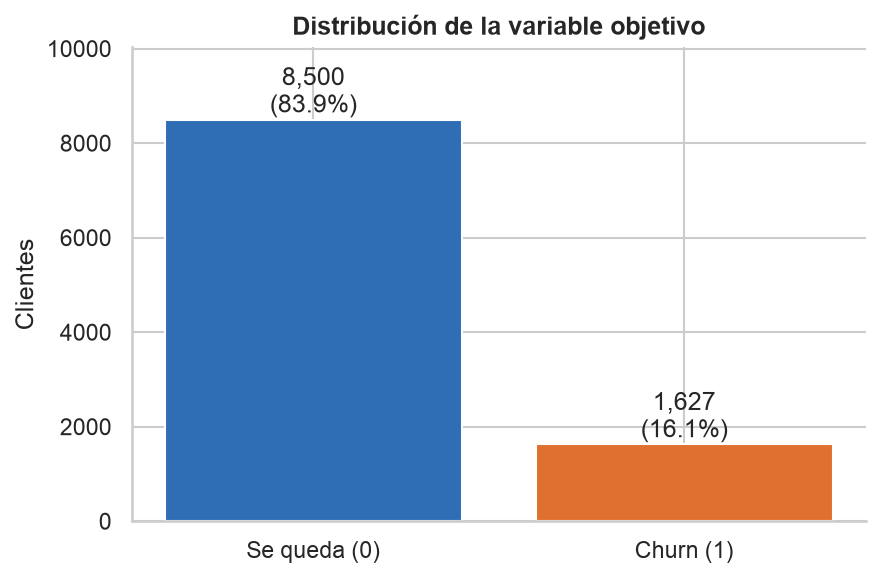
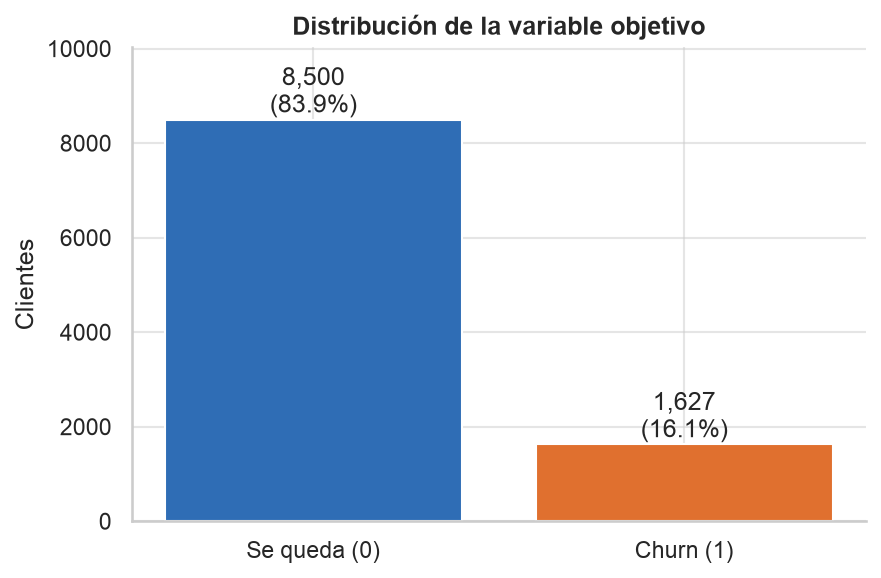
Primer análisis de datos

diff --git a/src/data_understanding/loading.py b/src/data_understanding/loading.py
@@ -13,11 +13,7 @@ def load_raw(path=cfg.DATA_PATH) -> pd.DataFrame:
 
 
 def prepare_base(df: pd.DataFrame) -> pd.DataFrame:
-    """Tipado básico y creación del target binario (1 = churn).
-
-    No elimina ni imputa nada: las decisiones de preprocesamiento
-    se toman en `features.py` dentro de pipelines.
-    """
+    """Tipado básico y creación del target binario (1 = churn)."""
     out = df.copy()
     out[cfg.TARGET] = (out[cfg.TARGET_RAW] == cfg.POSITIVE_LABEL).astype(int)
     out = out.drop(columns=[cfg.TARGET_RAW])
